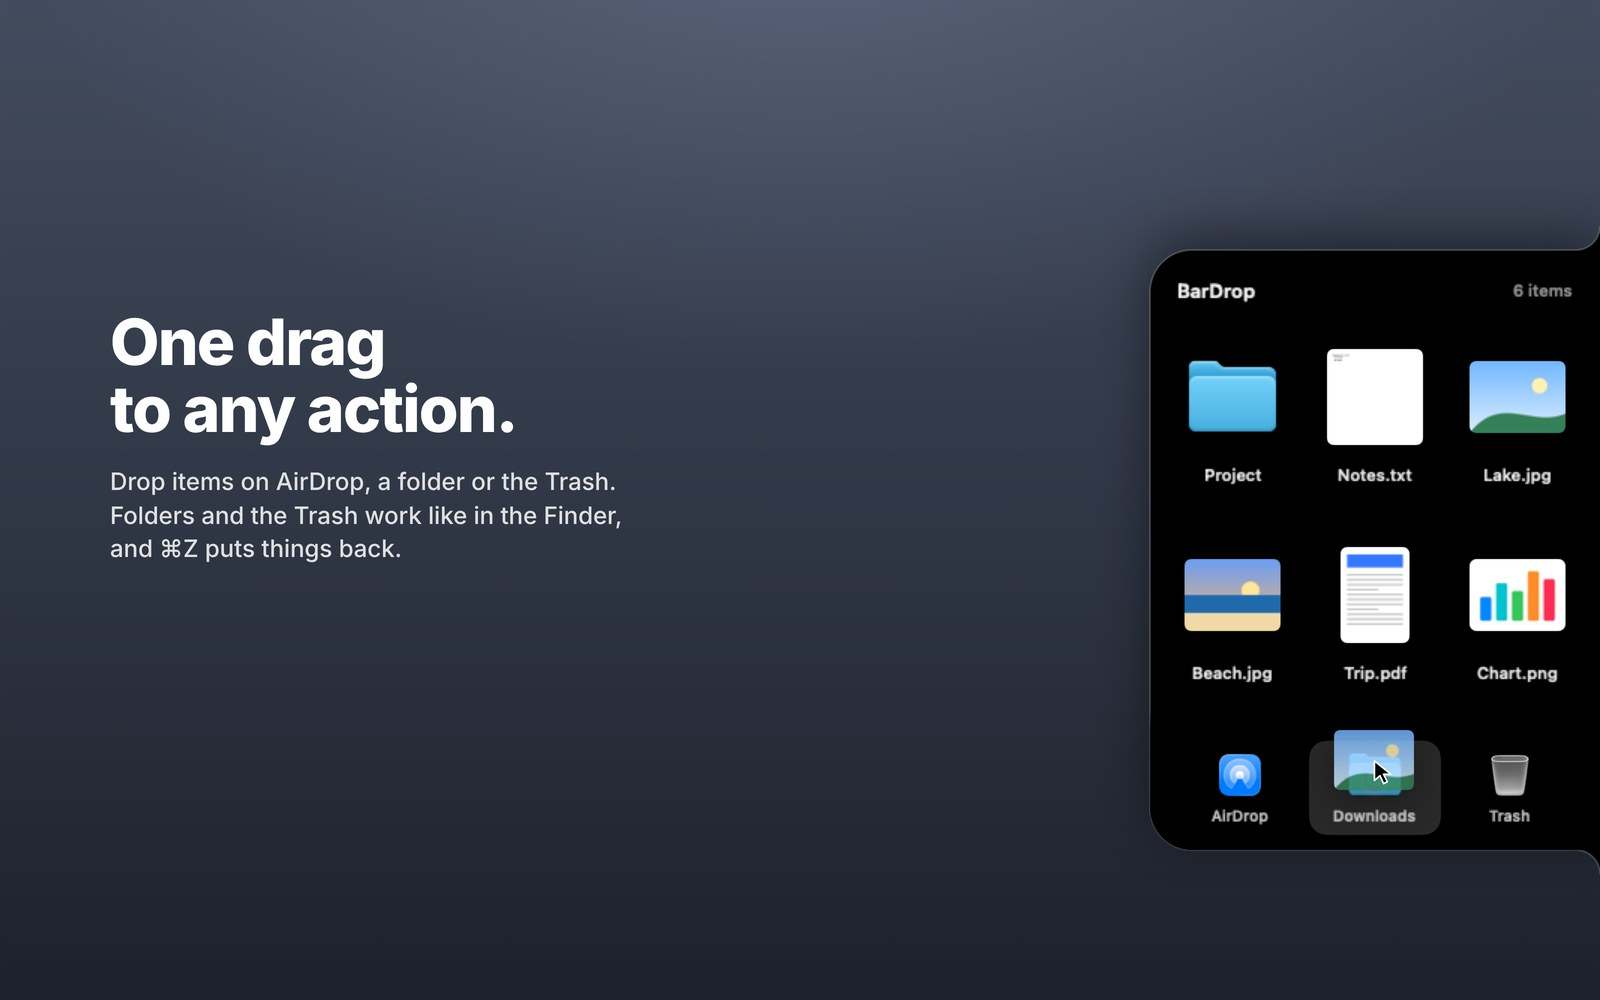
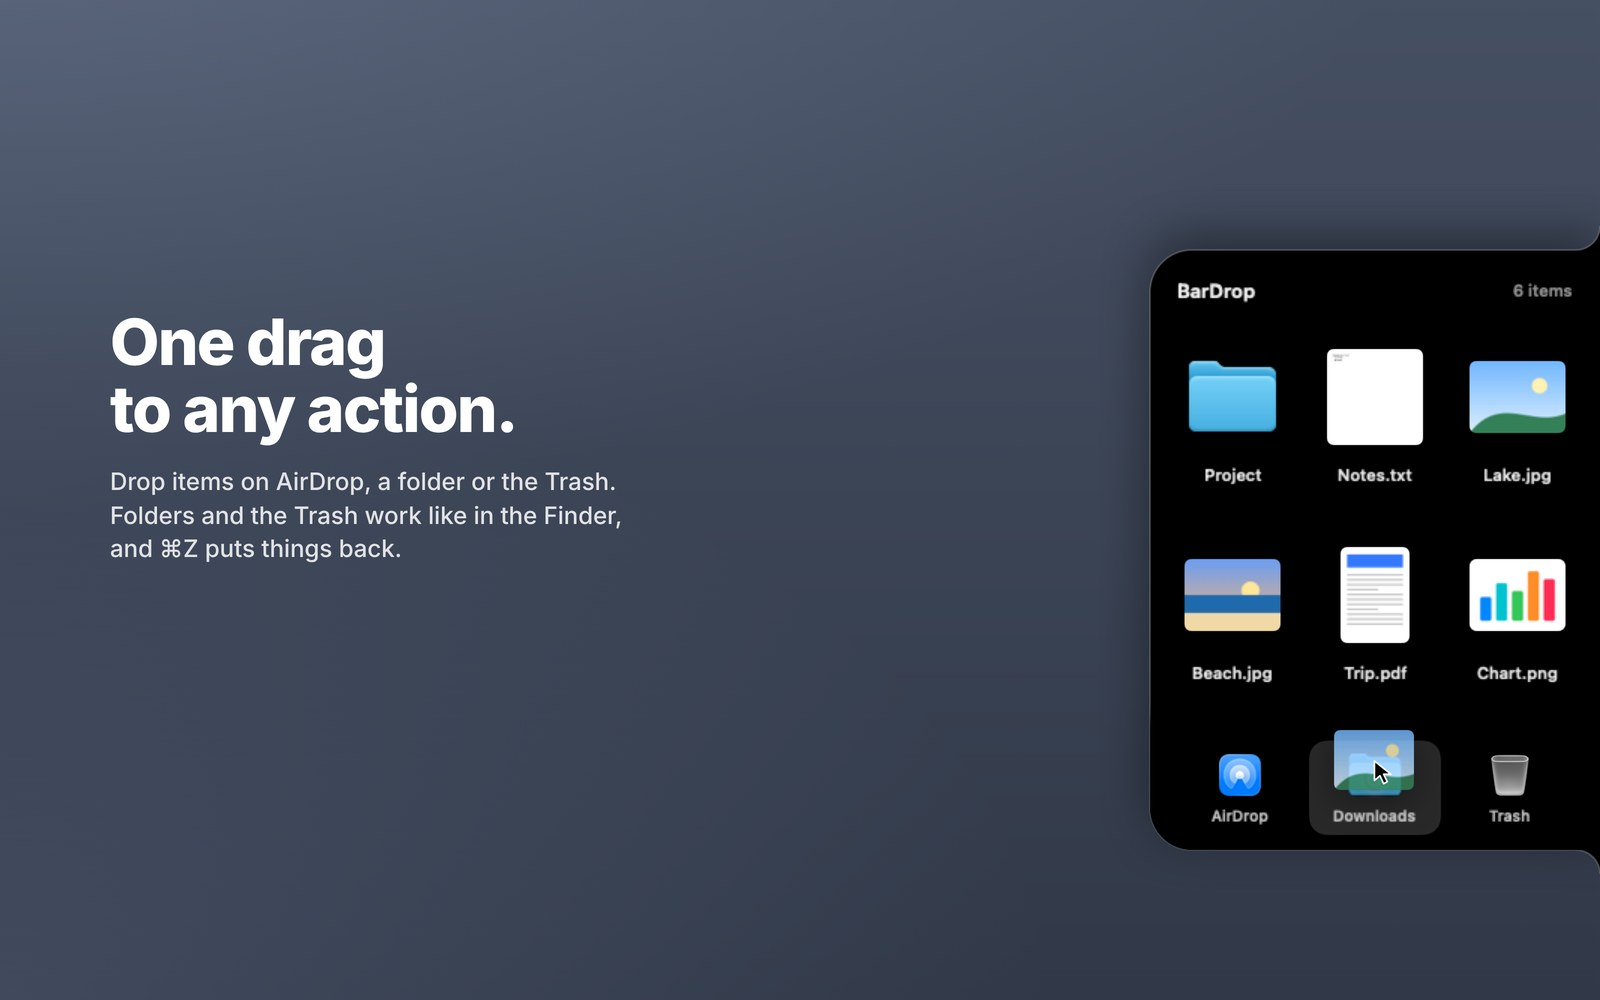
README: Hintergrund läuft über alle vier Bilder der Kachel durch [skip release]
Claude-Session: https://claude.ai/code/session_01Q57yxyjdU7wxBd8Y5q7yXG

Changed region(s): [[0.0, 0.527, 1.0, 1.0], [0.0, 0.0, 0.0938, 0.124], [0.0, 0.186, 0.125, 0.248]]

diff --git a/scripts/media/make.py b/scripts/media/make.py
@@ -17,20 +17,29 @@ def title(t,top=300,badge=False):
     h,p=t
     b='<div class="badge"><img src="AppIcon.png">BarDrop</div>' if badge else ''
     return f'<div class="title" style="left:110px;top:{top}px">{b}<h1>{h}</h1><p>{p}</p></div>'
+# Ein Hintergrund über alle vier Bilder: Im README stehen sie als 2×2-Kachel, jedes zeigt
+# seinen Ausschnitt aus einer großen Fläche, sodass der Verlauf über die Kachel weiterläuft
+QUAD={"hero":(0,0),"actions":(1,0),"stacks":(0,1),"settings":(1,1)}
+def wall(k):
+    qx,qy=QUAD[k]
+    return (f'<div style="position:absolute;left:{-1600*qx}px;top:{-1000*qy}px;width:3200px;height:2000px;background:'
+            'radial-gradient(1500px 900px at 50% 50%, rgba(118,134,166,.22) 0%, rgba(118,134,166,0) 70%),'
+            'radial-gradient(2000px 900px at 50% -6%, rgba(130,145,175,.36) 0%, rgba(130,145,175,0) 70%),'
+            'linear-gradient(180deg,#465063 0%,#323a49 48%,#1c2029 100%)"></div>')
 for lang,t in T.items():
     pages={}
-    pages["hero"]=HEAD+'<div class="wall"></div>'+title(t["hero"],250,True)+f'<img class="shot" src="Produkt_Ablage_{lang}.png" style="right:0;top:200px;width:660px;height:900px;margin-top:-100px">'+'</body></html>'
+    pages["hero"]=HEAD+wall("hero")+title(t["hero"],250,True)+f'<img class="shot" src="Produkt_Ablage_{lang}.png" style="right:0;top:200px;width:660px;height:900px;margin-top:-100px">'+'</body></html>'
     # actions: shelf zoomed with bar highlighted by crop
     # Aktion im Einsatz: eine Datei wird auf die Ordner-Aktion gezogen
     ghost='<div style="position:absolute;left:1334px;top:730px;width:80px;height:60px;opacity:.82;filter:drop-shadow(0 10px 18px rgba(0,0,0,.45))"><div style="width:80px;height:60px;background:url(Produkt_Aktion_'+lang+'.png) -441.25px -217.5px/550px 750px;border-radius:6px"></div></div>'
     cursor='<svg width="22" height="28" viewBox="0 0 18 22" style="position:absolute;left:1372px;top:758px"><path d="M2 2 L2 18 L6.5 14 L9.5 20.5 L12.5 19 L9.5 12.8 L15.5 12.8 Z" fill="#000" stroke="#fff" stroke-width="1.3" stroke-linejoin="round"/></svg>'
-    pages["actions"]=HEAD+'<div class="wall"></div>'+title(t["actions"],310)+f'<img class="shot" src="Produkt_Aktion_{lang}.png" style="right:0;top:100px;width:660px;height:900px">'+ghost+cursor+'</body></html>'
-    pages["stacks"]=HEAD+'<div class="wall"></div>'+title(t["stacks"],330)+f'<img class="shot" src="Produkt_Stapel_{lang}.png" style="right:0;top:100px;width:660px;height:900px">'+'</body></html>'
+    pages["actions"]=HEAD+wall("actions")+title(t["actions"],310)+f'<img class="shot" src="Produkt_Aktion_{lang}.png" style="right:0;top:100px;width:660px;height:900px">'+ghost+cursor+'</body></html>'
+    pages["stacks"]=HEAD+wall("stacks")+title(t["stacks"],330)+f'<img class="shot" src="Produkt_Stapel_{lang}.png" style="right:0;top:100px;width:660px;height:900px">'+'</body></html>'
     # Ganzes Einstellungsfenster im Dunkelmodus, mit Ampel wie in macOS
     lights='<div style="position:absolute;left:20px;top:20px;display:flex;gap:8px">'+''.join(f'<span style="width:12px;height:12px;border-radius:50%;background:{c};box-shadow:inset 0 0 0 .5px rgba(0,0,0,.25)"></span>' for c in ("#ff5f57","#febc2e","#28c840"))+'</div>'
     def window(img,left,top,border):
         return f'<div style="position:absolute;left:{left}px;top:{top}px;width:680px;height:700px;transform:scale(.78);transform-origin:top left;border-radius:16px;overflow:hidden;box-shadow:0 30px 80px rgba(0,0,0,.5);border:1px solid {border}"><img src="{img}" style="width:680px;height:700px;display:block">{lights}</div>'
     # Dunkel hinten, hell davor und leicht versetzt: beide Erscheinungsbilder
-    pages["settings"]=HEAD+'<div class="wall"></div>'+title(t["settings"],330)+window(f"Produkt_Fenster_Aktionen_{lang}.png",760,120,"rgba(255,255,255,.16)")+window(f"Produkt_Fenster_Objekte_{lang}_hell.png",990,300,"rgba(0,0,0,.18)")+'</body></html>'
+    pages["settings"]=HEAD+wall("settings")+title(t["settings"],330)+window(f"Produkt_Fenster_Aktionen_{lang}.png",760,120,"rgba(255,255,255,.16)")+window(f"Produkt_Fenster_Objekte_{lang}_hell.png",990,300,"rgba(0,0,0,.18)")+'</body></html>'
     for k,v in pages.items():
         open(f"p_{k}_{lang}.html","w").write(v)
